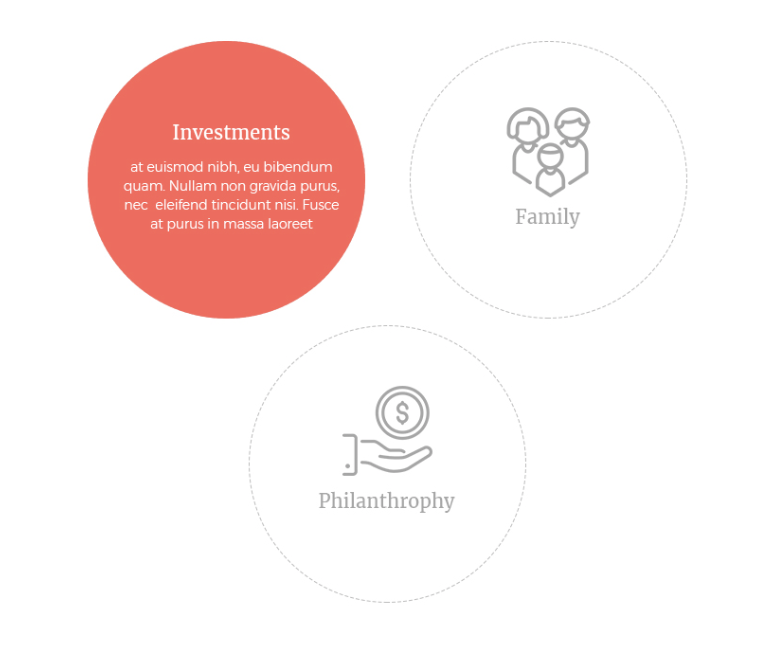
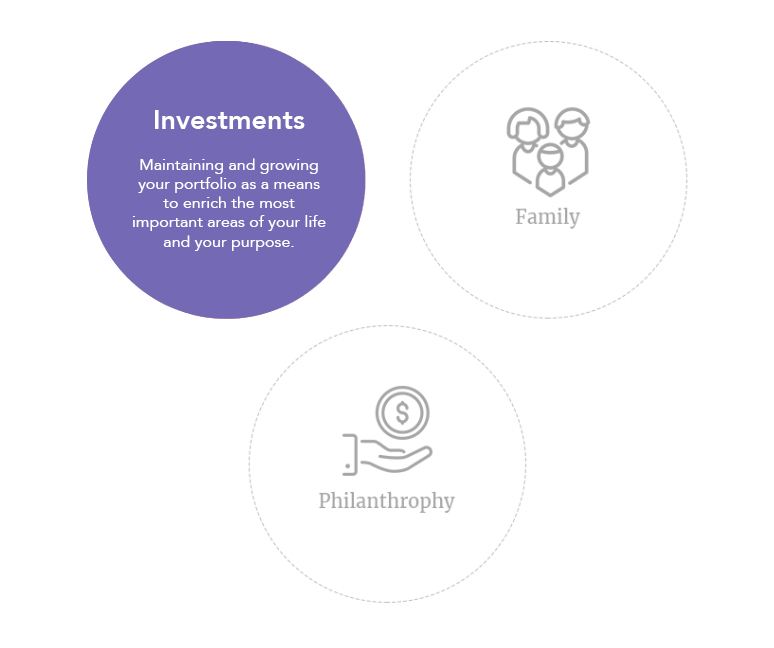
publish: revising images, text
generated from commit 44614db25ff709de9523dae6ee3842cce22215fb

Changed region(s): [[0.093, 0.0617, 0.4961, 0.4938]]

diff --git a/index.html b/index.html
@@ -5,6 +5,7 @@
     <meta name="viewport" content="width=device-width, initial-scale=1, minimal-ui">
     <title>Judy Hulsey</title>
     <link rel="stylesheet" href="css/app.css">
+    <link href="https://fonts.googleapis.com/css?family=Karla" rel="stylesheet">
   </head>
   <body>
     <row>
@@ -15,15 +16,15 @@
     </row>
     <div class="banner">
     <img src="images/header.jpg" alt="little girl playing chess with grandfather"/>
-    <h1 class="banner-text">Family Wealth is about more<br/>than just numbers...</h1>
+    <h1 class="banner-text">Family Wealth is more than<br/>just a numbers game.</h1>
     </div>
     <div class="row">
-      <h2>It's about your legacy.</h2>
+      <h2 class="legacy">It's about your legacy.</h2>
       <img class="col-md-8 col-md-push-2" src="images/JH-Legacy.png" alt="legacy">
     </div>
 
     <div>
-      <h2>And that legacy should be protected and preserved through all generations.</h2>
+      <h2 class="col-md-8 col-md-push-2">And that legacy should be protected and preserved through all generations.</h2>
       <img class="col-md-8 col-md-push-2" src="images/family-tree.png" alt="family tree">
     </div>
     <div>

diff --git a/css/app.css b/css/app.css
@@ -5760,7 +5760,7 @@ img {
 .nav {
   font-size: 20px;
   color: #008403;
-  font-family: sans-serif;
+  font-family: 'Karla', sans-serif;
   display: inline-block;
   position: absolute;
   right: 20px;
@@ -5776,16 +5776,20 @@ img {
   top: 60px;
   left: 80px;
   color: white;
-  font-family: serif;
-  font-size: 45px;
-  background: rgba(0, 0, 0, 0.4);
-  padding: 10px 20px;
-  border-radius: 10px; }
+  font-family: 'Karla', sans-serif;
+  font-size: 75px;
+  font-weight: bold;
+  text-shadow: 2px 2px 2px #000;
+  padding: 40px 40px; }
+
+.legacy {
+  padding-top: 110px; }
 
 h2 {
-  font-size: 45px;
-  color: #1A7D07;
-  font-family: serif;
+  font-size: 55px;
+  font-weight: bolder;
+  color: #381893;
+  font-family: 'Karla', sans-serif;
   text-align: center;
   padding: 20px; }
 
